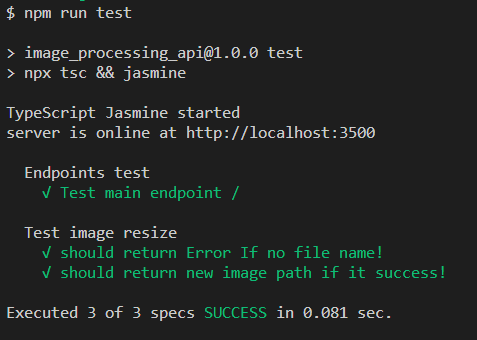
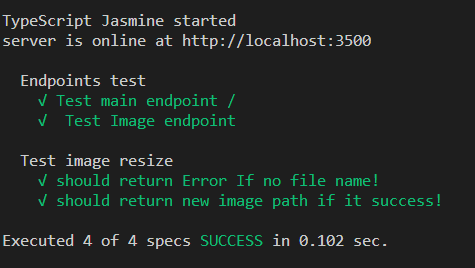
Add test for image endpoint

diff --git a/dist/tests/index.spec.js b/dist/tests/index.spec.js
@@ -20,4 +20,12 @@ describe('Endpoints test', () => {
         const response = yield request.get('/');
         expect(response.status).toBe(200);
     }));
+    it(" Test Image endpoint", () => __awaiter(void 0, void 0, void 0, function* () {
+        const name = "fjord";
+        const width = "500";
+        const height = "400";
+        const respond = yield request.get(`/image/?name=${name}&width=${width}&height=${height}`);
+        ;
+        expect(respond.status).toBe(200);
+    }));
 });

diff --git a/src/tests/index.spec.ts b/src/tests/index.spec.ts
@@ -9,4 +9,12 @@ describe('Endpoints test', () => {
         expect(response.status).toBe(200)
     })
 
+    it("Test Image endpoint", async () => {
+        const name = "fjord";
+        const width = "500";
+        const height = "400";
+        const respond = await request.get(`/image/?name=${name}&width=${width}&height=${height}`);;
+        expect(respond.status).toBe(200);
+    });
+
 })

diff --git a/README.md b/README.md
@@ -1,5 +1,9 @@
 # Image Processing API
 
+PLEASE READ THE INSTRUCTIONS !!
+IF YOU DON'T HAVE TIME TO READ IT
+YOU CAN CHANGE THE PORT IN THE LIKES BELOW TO BE 3000 AND IT WILL BE WORK!
+
  main endpoint: http://localhost:3500/
  example for image endpoint: http://localhost:3500/image/?name=fjord&width=500&height=400
 
